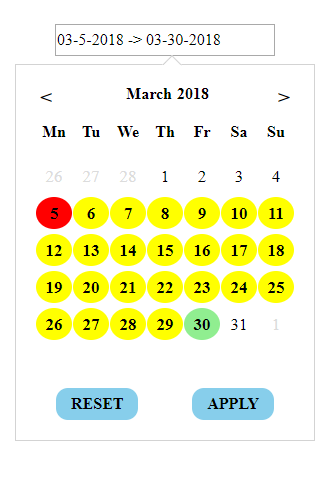
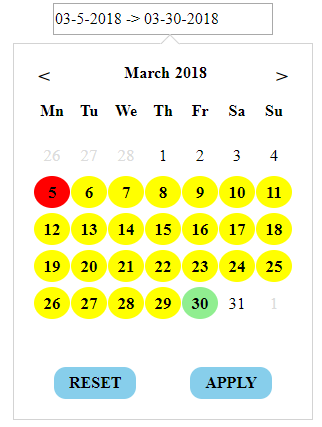
images added  read me

diff --git a/README.md b/README.md
@@ -4,8 +4,8 @@ Double date Picker built with React.js . User can select two dates from single c
 
 
 <p align="center">
-  <img src="./public/images/date-picker-normal-state.PNG" width="350"/>
-  <img src="./public/images/date-picker-selected-state.PNG" width="350"/>
+  <img src="./public/images/date-picker-normal-state.PNG" width="320"/>
+  <img src="./public/images/date-picker-selected-state.PNG" width="320"/>
 </p>
 
 ### How to run
